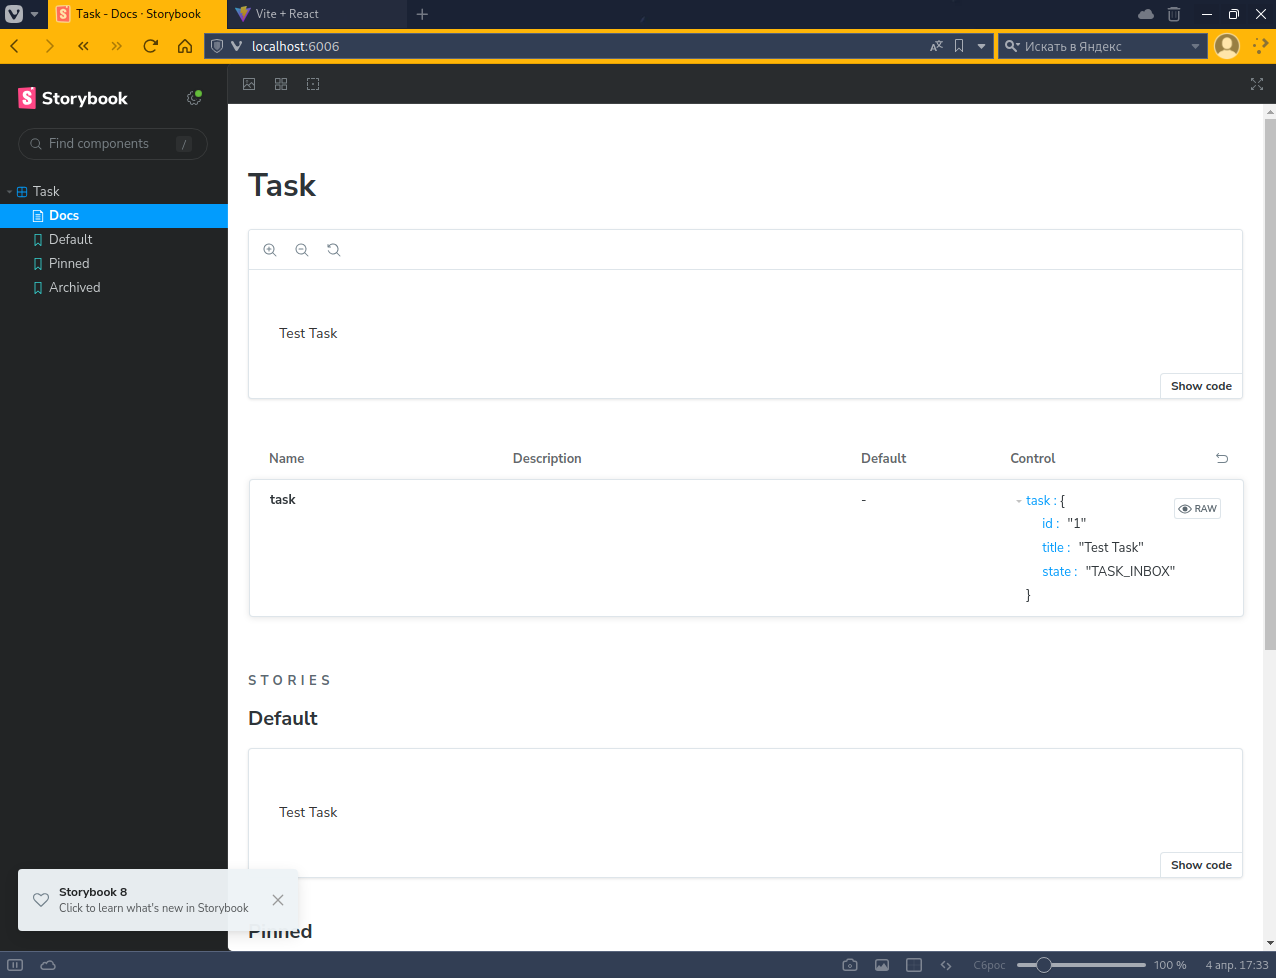
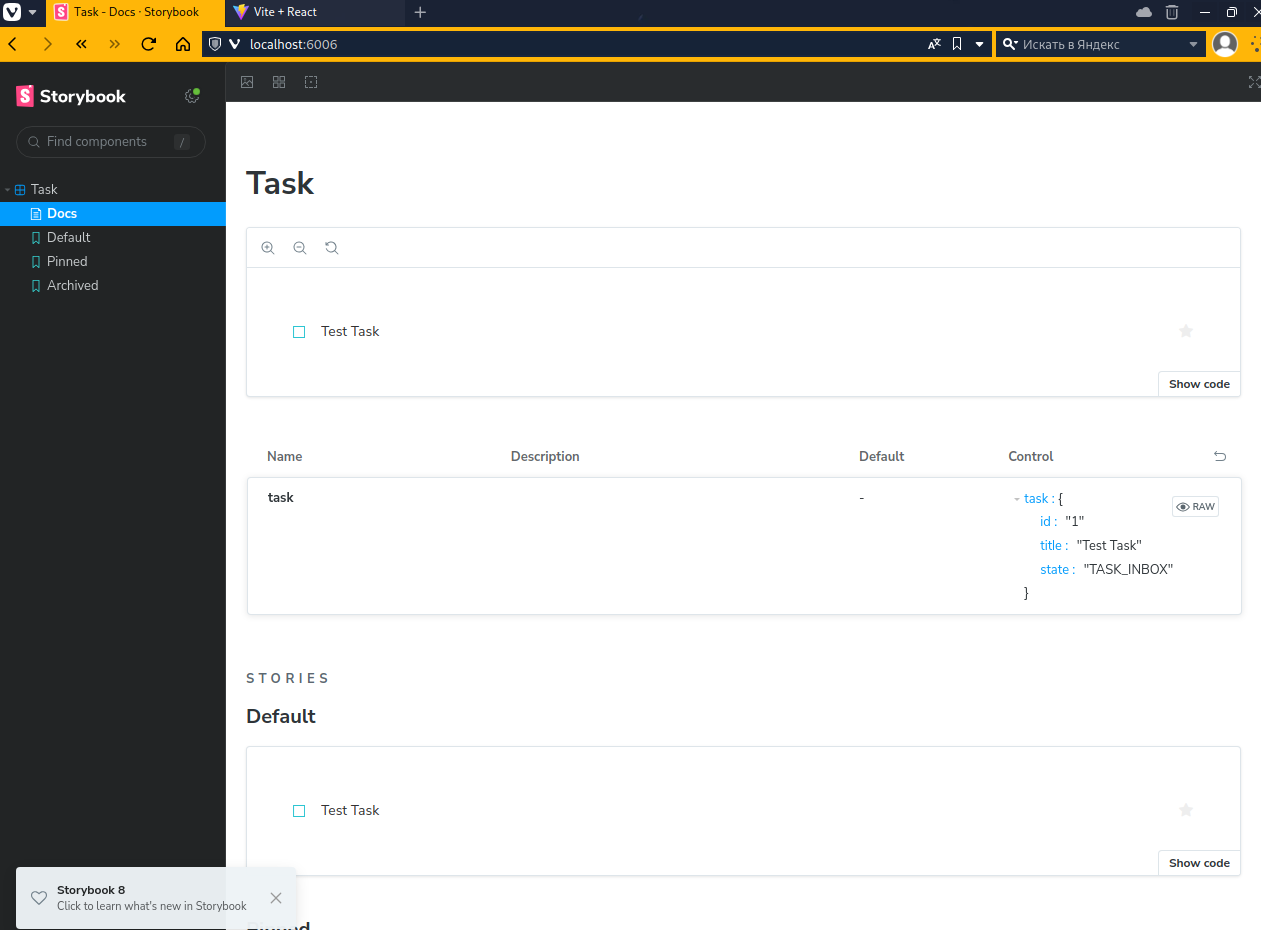
added states CHECKED and ALARMED to simple component

diff --git a/src/components/Task.jsx b/src/components/Task.jsx
@@ -1,11 +1,53 @@
 import React from 'react';
 
 export default function Task({ task: { id, title, state }, onArchiveTask, onPinTask }) {
+
+  const alarm = {
+    background: '#ff5454',
+    paddingLeft: '5px'
+  };
+
   return (
-    <div className="list-item">
-      <label htmlFor="title" aria-label={title}>
-        <input type="text" value={title} readOnly={true} name="title" />
+    <div className={`list-item ${state}`}>
+      <label
+        htmlFor="checked"
+        aria-label={`archiveTask-${id}`}
+        className="checkbox"
+      >
+        <input
+          type="checkbox"
+          disabled={true}
+          name="checked"
+          id={`archiveTask-${id}`}
+          checked={state === "TASK_ARCHIVED" || state === "TASK_CHECKED"}
+        />
+        <span
+          className="checkbox-custom"
+          onClick={() => onArchiveTask(id)}
+        />
       </label>
+
+      <label htmlFor="title" aria-label={title} className="title" style={state === "TASK_ALARMED" ? alarm : {background: "transparent" }}>
+        <input
+          type="text"
+          value={title}
+          readOnly={true}
+          name="title"
+          placeholder="Input title"
+        />
+      </label>
+
+      {state !== "TASK_ARCHIVED" && (
+        <button
+          className="pin-button"
+          onClick={() => onPinTask(id)}
+          id={`pinTask-${id}`}
+          aria-label={`pinTask-${id}`}
+          key={`pinTask-${id}`}
+        >
+          <span className={`icon-star`} />
+        </button>
+      )}
     </div>
   );
 }

diff --git a/src/components/Task.stories.jsx b/src/components/Task.stories.jsx
@@ -33,3 +33,21 @@ export const Archived = {
     },
   },
 };
+
+export const TaskAlarm = {
+  args: {
+    task: {
+      ...Default.args.task,
+      state: 'TASK_ALARMED',
+    },
+  },
+};
+
+export const Checked = {
+  args: {
+    task: {
+      ...Default.args.task,
+      state: 'TASK_CHECKED',
+    },
+  },
+};
